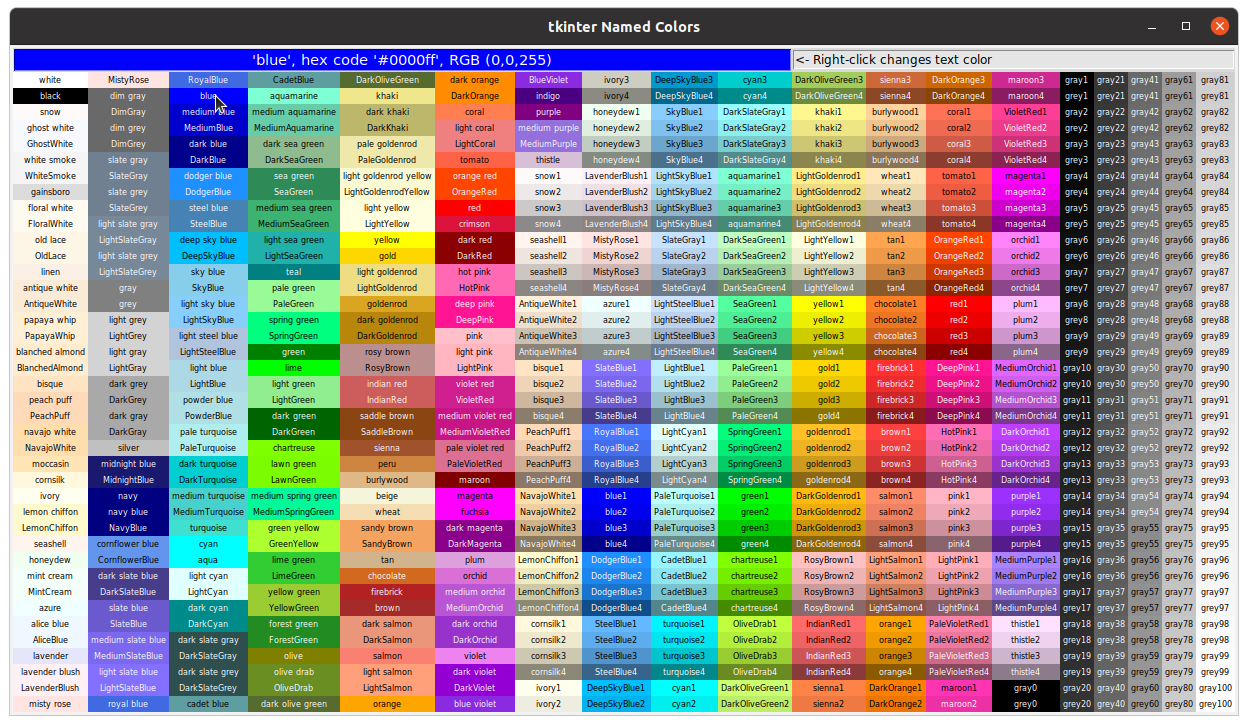
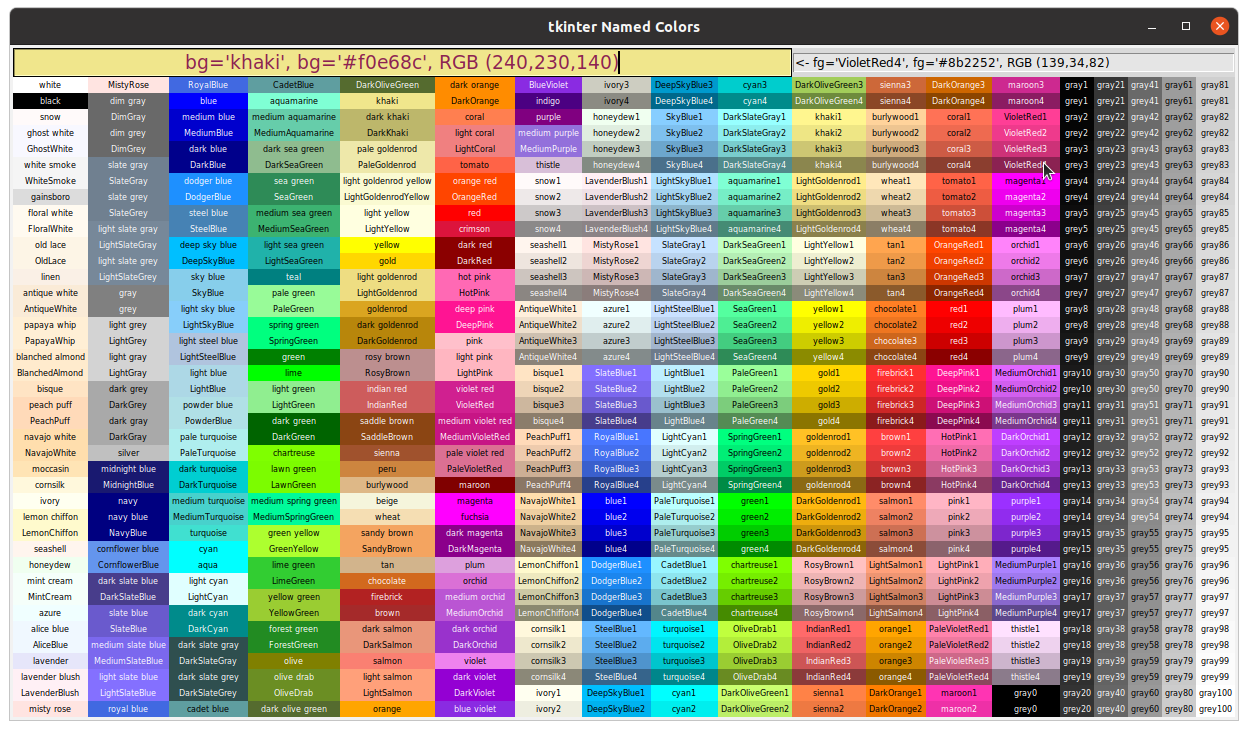
allow custom text; add more editing functions; improve color info; update README.md

Changed region(s): [[0.0, 0.0607, 1.0, 0.971]]

diff --git a/tk-color-helper.py b/tk-color-helper.py
@@ -16,7 +16,7 @@ https://stackoverflow.com/questions/4969543/colour-chart-for-tkinter-and-tix
 __author__ = 'csecht'
 __copyright__ = 'Copyright (C) 2021 C.S. Echt'
 __license__ = 'GNU General Public License'
-__version__ = '0.2.3'
+__version__ = '0.2.4'
 __program_name__ = 'tk-color-helper.py'
 __project_url__ = 'https://github.com/csecht/'
 __docformat__ = 'reStructuredText'
@@ -485,14 +485,14 @@ class ColorChart(tk.Frame):
         """
 
         # Set the control variable in top row Entry() for each color 'label'.
-        if len(sys.argv) > 0:
+        if len(sys.argv) > 1:
             self.colorinfo.set(
-                f"'{color}' is seen as hex code '{hexcode}', RGB {rgb}")
+                f"'{color}' is seen as bg='{hexcode}'; RGB {rgb}")
             self.bg_info.configure(bg=hexcode, fg=contrast)
             self.new_fg.set('<- Right-click changes text color')
         else:
             self.colorinfo.set(
-                f"'{color}', hex code '{hexcode}', RGB {rgb}")
+                f"bg='{color}' or bg='{hexcode}'; RGB {rgb}")
             self.bg_info.configure(bg=color, fg=contrast)
             self.new_fg.set('<- Right-click changes text color')
 
@@ -510,12 +510,12 @@ class ColorChart(tk.Frame):
                     simulated color.
         """
         self.bg_info.configure(fg=hexcode)
-        if len(sys.argv) > 0:
+        if len(sys.argv) > 1:
             self.new_fg.set(
-                f"<- Text: '{color}' is seen as fg='{hexcode}', {rgb}")
+                f"<- Text: '{color}' is seen as fg='{hexcode}'; {rgb}")
         else:
             self.new_fg.set(
-                f"<- fg='{color}', fg='{hexcode}', RGB {rgb}")
+                f"<- fg='{color}' or fg='{hexcode}'; RGB {rgb}")
 
 
 class RightClickCmds:
@@ -537,6 +537,9 @@ class RightClickCmds:
         right_click_menu.add_command(
             label='Cut',
             command=lambda: self.right_click_edit(event, 'Cut'))
+        right_click_menu.add_command(
+            label='Paste',
+            command=lambda: self.right_click_edit(event, 'Paste'))
 
         right_click_menu.tk_popup(event.x_root + 10, event.y_root + 15)
 
@@ -594,6 +597,6 @@ if __name__ == "__main__":
         elif args.t:
             root.title("tkinter Colors, Tritanopia Simulation")
         elif args.gray:
-            root.title("tkinter Colors, in Grayscale")
+            root.title("tkinter Colors in Grayscale")
         app = ColorChart(root)
         root.mainloop()

diff --git a/README.md b/README.md
@@ -18,10 +18,12 @@ optional arguments:
   --gray, --grey  Generate grayscale equivalents of named colors
 ```
 Run as `./tk-color-helper.py`
+Example usage: Click on khaki, then right-click on VioletRed4 to change foreground.
 ![named-colors](images/tkinter_colors.png)
 
-Right click to change foreground color:
-![new_text_color](images/new_text_color.png)
+TIP:
+Cut or delete the background color information and type or paste your own text. (Copy the color information first so you don't forget that awesome background color.)
+![custom_text](images/custom_text.png)
 
 Run as `$ ./tk-color-helper.py --d`
 ![deuteranopeia-simulated-colors](images/deuteranopia_sim.png)
@@ -34,3 +36,4 @@ Run as `$ ./tk-color-helper.py --t`
 
 Run as `$ ./tk-color-helper.py --gray`
 ![grayscale-tk-colors](images/grayscale_sim.png)
+
